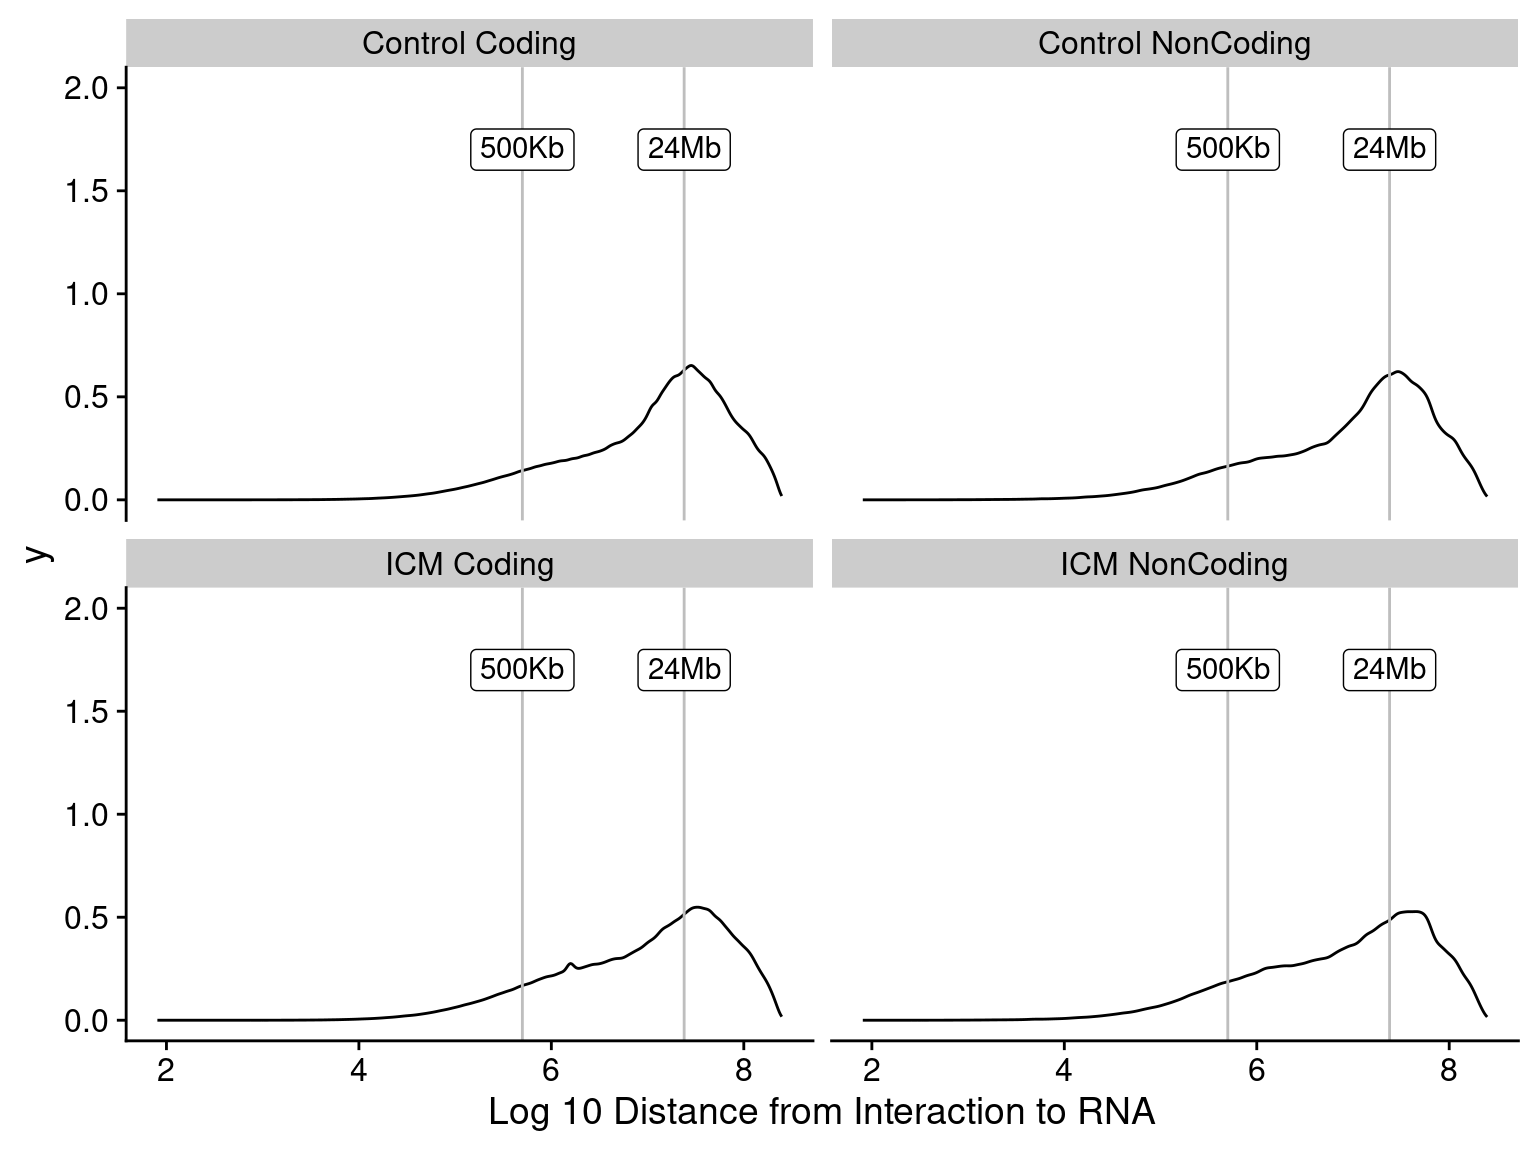
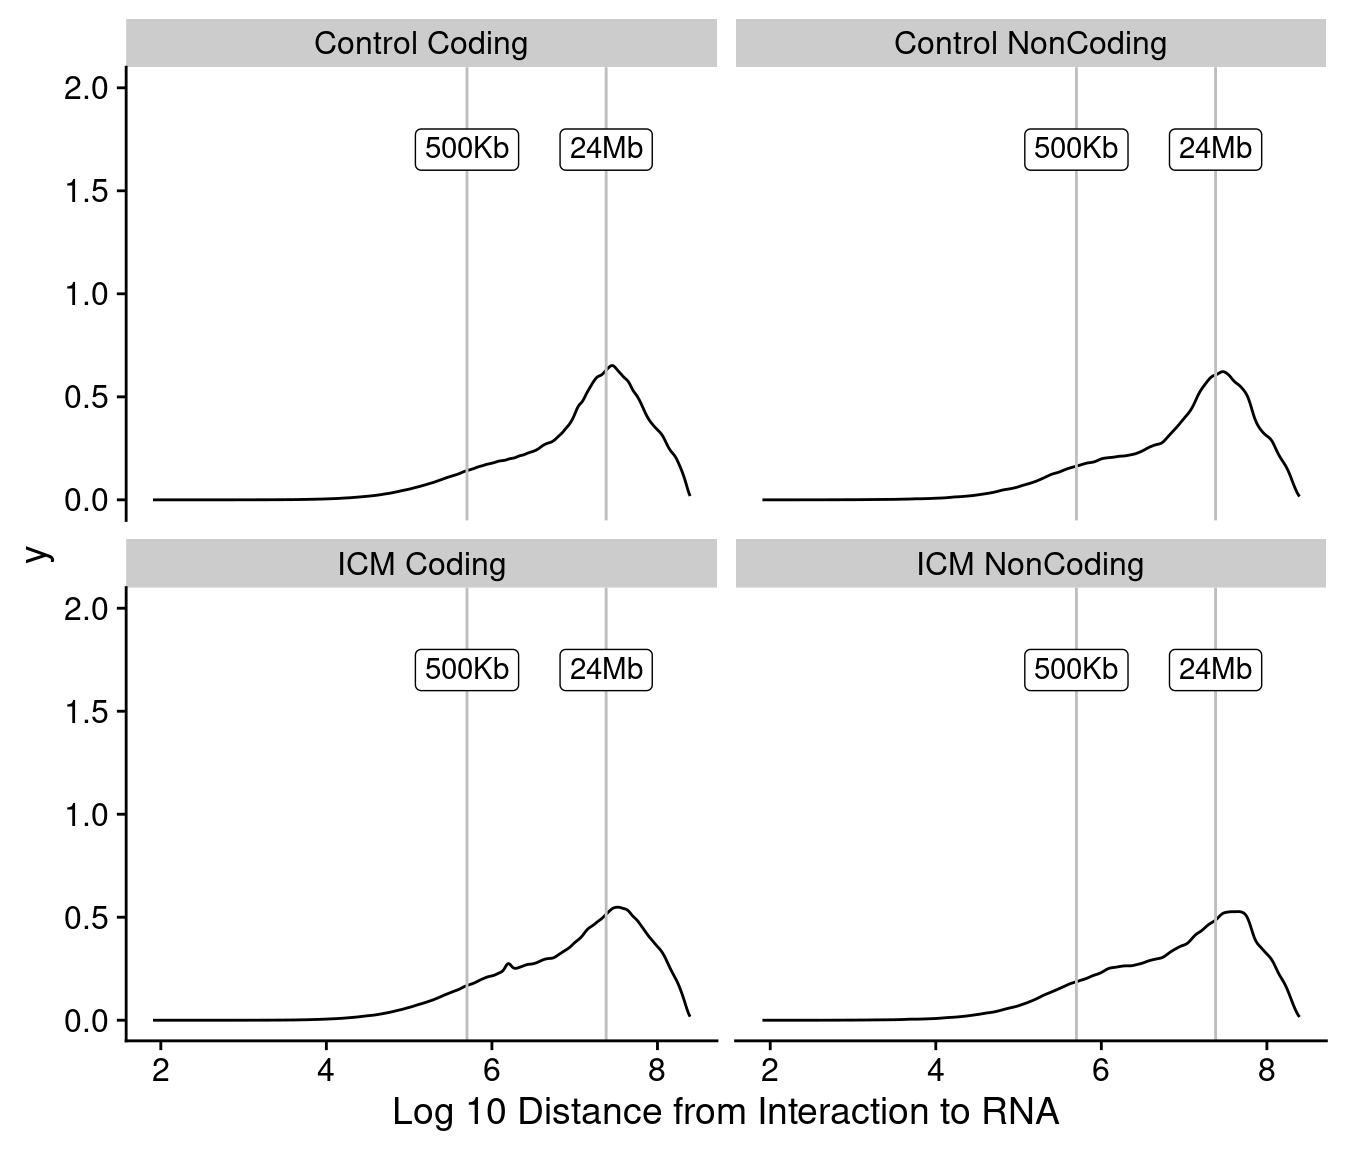
images

diff --git a/docs/norm.html b/docs/norm.html
@@ -471,9 +471,9 @@ div.tocify {
 <span id="cb1-4"><a href="#cb1-4" aria-hidden="true" tabindex="-1"></a>  <span class="at">comment =</span> <span class="st">&quot;#&gt;&quot;</span>,</span>
 <span id="cb1-5"><a href="#cb1-5" aria-hidden="true" tabindex="-1"></a>  <span class="co">#root.dir = root.dir</span></span>
 <span id="cb1-6"><a href="#cb1-6" aria-hidden="true" tabindex="-1"></a>  <span class="at">fig.height =</span> <span class="dv">6</span>,</span>
-<span id="cb1-7"><a href="#cb1-7" aria-hidden="true" tabindex="-1"></a>  <span class="at">fig.width =</span> <span class="fl">8.00787</span> <span class="co">#178mm</span></span>
+<span id="cb1-7"><a href="#cb1-7" aria-hidden="true" tabindex="-1"></a>  <span class="at">fig.width =</span> <span class="fl">7.00787</span> <span class="co">#178mm</span></span>
 <span id="cb1-8"><a href="#cb1-8" aria-hidden="true" tabindex="-1"></a>)  </span>
-<span id="cb1-9"><a href="#cb1-9" aria-hidden="true" tabindex="-1"></a>knitr<span class="sc">::</span>opts_knit<span class="sc">$</span><span class="fu">set</span>(<span class="co">#root.dir = root.dir, </span></span>
+<span id="cb1-9"><a href="#cb1-9" aria-hidden="true" tabindex="-1"></a>knitr<span class="sc">::</span>opts_knit<span class="sc">$</span><span class="fu">set</span>(<span class="at">root.dir =</span> <span class="st">&quot;~/Radicl_Seq/Radicl_seq_functions/&quot;</span>, </span>
 <span id="cb1-10"><a href="#cb1-10" aria-hidden="true" tabindex="-1"></a>                     <span class="at">dpi =</span> <span class="dv">350</span>)  </span>
 <span id="cb1-11"><a href="#cb1-11" aria-hidden="true" tabindex="-1"></a><span class="fu">library</span>(data.table)</span>
 <span id="cb1-12"><a href="#cb1-12" aria-hidden="true" tabindex="-1"></a><span class="fu">library</span>(ggplot2)</span>
@@ -500,8 +500,8 @@ div.tocify {
 <span id="cb11-8"><a href="#cb11-8" aria-hidden="true" tabindex="-1"></a><span class="fu">library</span>(scales)</span>
 <span id="cb11-9"><a href="#cb11-9" aria-hidden="true" tabindex="-1"></a><span class="co">#library(ggpubr)</span></span></code></pre></div>
 <pre><code>#&gt;              used   (Mb) gc trigger    (Mb)   max used   (Mb)
-#&gt; Ncells   10851032  579.6   17338411   926.0   11825415  631.6
-#&gt; Vcells 1265377192 9654.1 1653230576 12613.2 1265440165 9654.6
+#&gt; Ncells   10851038  579.6   17338414   926.0   11825382  631.6
+#&gt; Vcells 1265377258 9654.1 1653230670 12613.2 1265440231 9654.6
 #&gt;        trans          cis bait.to.bait 
 #&gt;        &quot;76%&quot;        &quot;24%&quot;        &quot;25%&quot; 
 #&gt;        trans          cis bait.to.bait 
@@ -533,8 +533,8 @@ div.tocify {
 <span id="cb13-13"><a href="#cb13-13" aria-hidden="true" tabindex="-1"></a>))</span>
 <span id="cb13-14"><a href="#cb13-14" aria-hidden="true" tabindex="-1"></a></span>
 <span id="cb13-15"><a href="#cb13-15" aria-hidden="true" tabindex="-1"></a>DT<span class="sc">::</span><span class="fu">datatable</span>(qc_df, <span class="at">container =</span> sktech, <span class="at">rownames =</span> <span class="cn">TRUE</span>,<span class="at">options =</span> <span class="fu">list</span>(<span class="at">scrollX=</span><span class="cn">TRUE</span>))</span></code></pre></div>
-<div class="datatables html-widget html-fill-item-overflow-hidden html-fill-item" id="htmlwidget-75d6eb5d55358e6624b3" style="width:100%;height:auto;"></div>
-<script type="application/json" data-for="htmlwidget-75d6eb5d55358e6624b3">{"x":{"filter":"none","vertical":false,"class":"display","data":[["trans","cis","bait.to.bait"],["76%","24%","25%"],["75%","25%","1%"],["79%","21%","26%"],["78%","22%","1%"],["76%","24%","23%"],["74%","26%","1%"],["80%","20%","24%"],["78%","22%","1%"]],"container":"<table class=\"display\">\n  <thead>\n    <tr>\n      <th rowspan=\"2\">Type<\/th>\n      <th colspan=\"5\">All<\/th>\n      <th colspan=\"5\">Significant<\/th>\n    <\/tr>\n    <tr>\n      <th>Ctrl Coding<\/th>\n      <th>Ctrl NonCoding<\/th>\n      <th>ICM Coding<\/th>\n      <th>ICM NonCoding<\/th>\n      <th>Ctrl Coding<\/th>\n      <th>Ctrl NonCoding<\/th>\n      <th>ICM Coding<\/th>\n      <th>ICM NonCoding<\/th>\n    <\/tr>\n  <\/thead>\n<\/table>","options":{"scrollX":true,"columnDefs":[{"orderable":false,"targets":0}],"order":[],"autoWidth":false,"orderClasses":false}},"evals":[],"jsHooks":[]}</script>
+<div class="datatables html-widget html-fill-item-overflow-hidden html-fill-item" id="htmlwidget-98c0ea7418d1e2fb68d4" style="width:100%;height:auto;"></div>
+<script type="application/json" data-for="htmlwidget-98c0ea7418d1e2fb68d4">{"x":{"filter":"none","vertical":false,"class":"display","data":[["trans","cis","bait.to.bait"],["76%","24%","25%"],["75%","25%","1%"],["79%","21%","26%"],["78%","22%","1%"],["76%","24%","23%"],["74%","26%","1%"],["80%","20%","24%"],["78%","22%","1%"]],"container":"<table class=\"display\">\n  <thead>\n    <tr>\n      <th rowspan=\"2\">Type<\/th>\n      <th colspan=\"5\">All<\/th>\n      <th colspan=\"5\">Significant<\/th>\n    <\/tr>\n    <tr>\n      <th>Ctrl Coding<\/th>\n      <th>Ctrl NonCoding<\/th>\n      <th>ICM Coding<\/th>\n      <th>ICM NonCoding<\/th>\n      <th>Ctrl Coding<\/th>\n      <th>Ctrl NonCoding<\/th>\n      <th>ICM Coding<\/th>\n      <th>ICM NonCoding<\/th>\n    <\/tr>\n  <\/thead>\n<\/table>","options":{"scrollX":true,"columnDefs":[{"orderable":false,"targets":0}],"order":[],"autoWidth":false,"orderClasses":false}},"evals":[],"jsHooks":[]}</script>
 <div id="preprocessing" class="section level2">
 <h2>Preprocessing</h2>
 <div class="sourceCode" id="cb14"><pre class="sourceCode r"><code class="sourceCode r"><span id="cb14-1"><a href="#cb14-1" aria-hidden="true" tabindex="-1"></a><span class="co">#read in the data</span></span>
@@ -559,8 +559,8 @@ div.tocify {
 <span id="cb14-20"><a href="#cb14-20" aria-hidden="true" tabindex="-1"></a>baits <span class="ot">&lt;-</span> <span class="fu">fread</span>(<span class="st">&quot;~/Radicl_Seq/Gene_locations_no_ovrlps.bed&quot;</span>)</span>
 <span id="cb14-21"><a href="#cb14-21" aria-hidden="true" tabindex="-1"></a><span class="fu">colnames</span>(baits) <span class="ot">&lt;-</span> <span class="fu">c</span>(<span class="st">&quot;chr&quot;</span>,<span class="st">&quot;start&quot;</span>,<span class="st">&quot;end&quot;</span>,<span class="st">&quot;bait_name&quot;</span>)</span></code></pre></div>
 <pre><code>#&gt;              used    (Mb) gc trigger    (Mb)   max used    (Mb)
-#&gt; Ncells   10936334   584.1   17338411   926.0   17338411   926.0
-#&gt; Vcells 1908717071 14562.4 6155472282 46962.6 5128160087 39124.8</code></pre>
+#&gt; Ncells   10936340   584.1   17338414   926.0   17338414   926.0
+#&gt; Vcells 1908717137 14562.4 6155472420 46962.6 5128160153 39124.8</code></pre>
 </div>
 <div id="relationship-between-rna-length-and-detected-interactions"
 class="section level2">
@@ -902,7 +902,7 @@ class="section level2">
 <span id="cb19-63"><a href="#cb19-63" aria-hidden="true" tabindex="-1"></a></span>
 <span id="cb19-64"><a href="#cb19-64" aria-hidden="true" tabindex="-1"></a>gridExtra<span class="sc">::</span><span class="fu">grid.arrange</span>(plt_non_b2b_frag,plt_non_b2b_bait,</span>
 <span id="cb19-65"><a href="#cb19-65" aria-hidden="true" tabindex="-1"></a>                          plt_b2b_frag,plt_b2b_bait,<span class="at">ncol=</span><span class="dv">2</span>)</span></code></pre></div>
-<p><img src="norm_files/figure-html/unnamed-chunk-8-1.png" width="768.75552" /></p>
+<p><img src="norm_files/figure-html/unnamed-chunk-8-1.png" width="672.75552" /></p>
 </div>
 <div id="distance-of-interactions-from-transcriptional-start-site"
 class="section level2">
@@ -917,7 +917,7 @@ class="section level2">
 <span id="cb20-8"><a href="#cb20-8" aria-hidden="true" tabindex="-1"></a>    <span class="fu">annotate</span>(<span class="at">x=</span><span class="fu">log</span>(<span class="dv">500000</span>,<span class="at">base=</span><span class="dv">10</span>),<span class="at">y=</span><span class="dv">2</span>,<span class="at">label=</span><span class="st">&quot;500Kb&quot;</span>,<span class="at">vjust=</span><span class="dv">2</span>,<span class="at">geom=</span><span class="st">&quot;label&quot;</span>)<span class="sc">+</span></span>
 <span id="cb20-9"><a href="#cb20-9" aria-hidden="true" tabindex="-1"></a>    <span class="fu">xlab</span>(<span class="st">&quot;Log 10 Distance from Interaction to RNA&quot;</span>)<span class="sc">+</span></span>
 <span id="cb20-10"><a href="#cb20-10" aria-hidden="true" tabindex="-1"></a>  <span class="fu">facet_wrap</span>(<span class="sc">~</span>type)</span></code></pre></div>
-<p><img src="norm_files/figure-html/unnamed-chunk-9-1.png" width="768.75552" /></p>
+<p><img src="norm_files/figure-html/unnamed-chunk-9-1.png" width="672.75552" /></p>
 <p>Split the plot according to the Replicate type and next according to
 the p value</p>
 <div class="sourceCode" id="cb21"><pre class="sourceCode r"><code class="sourceCode r"><span id="cb21-1"><a href="#cb21-1" aria-hidden="true" tabindex="-1"></a></span>
@@ -932,7 +932,7 @@ the p value</p>
 <span id="cb21-10"><a href="#cb21-10" aria-hidden="true" tabindex="-1"></a>  <span class="fu">annotate</span>(<span class="at">x=</span><span class="fu">log</span>(<span class="dv">24000000</span>,<span class="at">base =</span> <span class="dv">10</span>), <span class="at">y=</span><span class="dv">2</span>, <span class="at">label=</span><span class="st">&quot;24Mb&quot;</span>,<span class="at">vjust=</span><span class="dv">2</span>,<span class="at">geom =</span> <span class="st">&quot;label&quot;</span>) <span class="sc">+</span></span>
 <span id="cb21-11"><a href="#cb21-11" aria-hidden="true" tabindex="-1"></a>  <span class="fu">annotate</span>(<span class="at">x=</span><span class="fu">log</span>(<span class="dv">500000</span>,<span class="at">base =</span> <span class="dv">10</span>), <span class="at">y=</span><span class="dv">2</span>, <span class="at">label=</span><span class="st">&quot;500kb&quot;</span>,<span class="at">vjust=</span><span class="dv">2</span>,<span class="at">geom =</span> <span class="st">&quot;label&quot;</span>) <span class="sc">+</span></span>
 <span id="cb21-12"><a href="#cb21-12" aria-hidden="true" tabindex="-1"></a>  <span class="fu">xlab</span>(<span class="st">&quot;Log 10 Distance from interaction to RNA&quot;</span>)</span></code></pre></div>
-<p><img src="norm_files/figure-html/unnamed-chunk-10-1.png" width="768.75552" />
+<p><img src="norm_files/figure-html/unnamed-chunk-10-1.png" width="672.75552" />
 Normalizing the plot for RNA distance</p>
 <div class="sourceCode" id="cb22"><pre class="sourceCode r"><code class="sourceCode r"><span id="cb22-1"><a href="#cb22-1" aria-hidden="true" tabindex="-1"></a>merged_stretch_cis[,stnd_dist<span class="sc">:</span><span class="er">=</span>distance<span class="sc">/</span>bait.length]</span>
 <span id="cb22-2"><a href="#cb22-2" aria-hidden="true" tabindex="-1"></a></span>
@@ -948,7 +948,7 @@ Normalizing the plot for RNA distance</p>
 <span id="cb22-12"><a href="#cb22-12" aria-hidden="true" tabindex="-1"></a>    <span class="fu">annotate</span>(<span class="at">x=</span><span class="fu">log</span>(<span class="dv">400</span>,<span class="at">base=</span><span class="dv">10</span>),<span class="at">y=</span>.<span class="dv">8</span>,<span class="at">label=</span><span class="st">&quot;120x RNA Length&quot;</span>,<span class="at">vjust=</span><span class="dv">2</span>,</span>
 <span id="cb22-13"><a href="#cb22-13" aria-hidden="true" tabindex="-1"></a>             <span class="at">geom=</span><span class="st">&quot;label&quot;</span>)<span class="sc">+</span></span>
 <span id="cb22-14"><a href="#cb22-14" aria-hidden="true" tabindex="-1"></a>    <span class="fu">xlab</span>(<span class="st">&quot;Log 10 Distance from Interaction to RNA of RNA Length&quot;</span>)</span></code></pre></div>
-<p><img src="norm_files/figure-html/unnamed-chunk-11-1.png" width="768.75552" /></p>
+<p><img src="norm_files/figure-html/unnamed-chunk-11-1.png" width="672.75552" /></p>
 </div>
 <div
 id="check-the-effect-of-rna-length-normalisation-on-the-distribution-of-counts"
@@ -962,9 +962,9 @@ significant interactions.</p>
 <div class="sourceCode" id="cb23"><pre class="sourceCode r"><code class="sourceCode r"><span id="cb23-1"><a href="#cb23-1" aria-hidden="true" tabindex="-1"></a>merged_runs<span class="sc">$</span>target.len <span class="ot">&lt;-</span> merged_runs<span class="sc">$</span>target.end<span class="sc">-</span>merged_runs<span class="sc">$</span>target.start</span>
 <span id="cb23-2"><a href="#cb23-2" aria-hidden="true" tabindex="-1"></a>merged_runs<span class="sc">$</span>bait.len <span class="ot">&lt;-</span> merged_runs<span class="sc">$</span>bait.end<span class="sc">-</span>merged_runs<span class="sc">$</span>bait.start</span>
 <span id="cb23-3"><a href="#cb23-3" aria-hidden="true" tabindex="-1"></a><span class="co">#plot the relationship between bait length and counts</span></span></code></pre></div>
-<p><img src="../Images/Chicane_baits.trans_plot.png" width="2066" /></p>
-<p><img src="../Images/Chicane_targets.trans_plot.png" width="2066" /></p>
-<p><img src="../Images/Chicane_counts_dist.png" width="2066" /></p>
+<p><img src="../Images/Chicane_baits.trans_plot.png" width="100%" /></p>
+<p><img src="../Images/Chicane_targets.trans_plot.png" width="100%" /></p>
+<p><img src="../Images/Chicane_counts_dist.png" width="100%" /></p>
 </div>
 <div id="coding-vs-non-coding-rnas" class="section level2">
 <h2>Coding vs Non-coding RNAs</h2>
@@ -1028,7 +1028,7 @@ significant interactions.</p>
 <span id="cb26-10"><a href="#cb26-10" aria-hidden="true" tabindex="-1"></a>            <span class="at">legend.position=</span><span class="st">&quot;none&quot;</span>)<span class="sc">+</span></span>
 <span id="cb26-11"><a href="#cb26-11" aria-hidden="true" tabindex="-1"></a>    <span class="fu">xlab</span>(<span class="st">&quot;&quot;</span>)<span class="sc">+</span></span>
 <span id="cb26-12"><a href="#cb26-12" aria-hidden="true" tabindex="-1"></a>    <span class="fu">ylab</span>(<span class="st">&quot;Total Number of interactions&quot;</span>)</span></code></pre></div>
-<p><img src="norm_files/figure-html/unnamed-chunk-18-1.png" width="768.75552" /></p>
+<p><img src="norm_files/figure-html/unnamed-chunk-18-1.png" width="672.75552" /></p>
 <div class="sourceCode" id="cb27"><pre class="sourceCode r"><code class="sourceCode r"><span id="cb27-1"><a href="#cb27-1" aria-hidden="true" tabindex="-1"></a><span class="fu">ggplot</span>(res_biotyp[q.value<span class="sc">&lt;</span><span class="fl">0.05</span>,],</span>
 <span id="cb27-2"><a href="#cb27-2" aria-hidden="true" tabindex="-1"></a>        <span class="fu">aes</span>(<span class="at">x=</span>gene_biotype_hl,<span class="at">fill=</span>gene_biotype_hl)) <span class="sc">+</span></span>
 <span id="cb27-3"><a href="#cb27-3" aria-hidden="true" tabindex="-1"></a>    <span class="fu">geom_bar</span>()<span class="sc">+</span></span>
@@ -1039,7 +1039,7 @@ significant interactions.</p>
 <span id="cb27-8"><a href="#cb27-8" aria-hidden="true" tabindex="-1"></a>            <span class="at">legend.position=</span><span class="st">&quot;none&quot;</span>)<span class="sc">+</span></span>
 <span id="cb27-9"><a href="#cb27-9" aria-hidden="true" tabindex="-1"></a>    <span class="fu">xlab</span>(<span class="st">&quot;&quot;</span>)<span class="sc">+</span></span>
 <span id="cb27-10"><a href="#cb27-10" aria-hidden="true" tabindex="-1"></a>    <span class="fu">ylab</span>(<span class="st">&quot;Number of significant interactions&quot;</span>)</span></code></pre></div>
-<p><img src="norm_files/figure-html/unnamed-chunk-19-1.png" width="768.75552" /></p>
+<p><img src="norm_files/figure-html/unnamed-chunk-19-1.png" width="672.75552" /></p>
 <p>Proportion of cis coding/non coding interactions</p>
 <div class="sourceCode" id="cb28"><pre class="sourceCode r"><code class="sourceCode r"><span id="cb28-1"><a href="#cb28-1" aria-hidden="true" tabindex="-1"></a>merged_counts <span class="ot">&lt;-</span> res_biotyp[q.value<span class="sc">&lt;</span><span class="fl">0.05</span>, .N, by<span class="ot">=</span>.(interaction,gene_biotype_hl, control)]</span>
 <span id="cb28-2"><a href="#cb28-2" aria-hidden="true" tabindex="-1"></a><span class="co">#merged_counts$control &lt;- ifelse(merged_counts$type %in% c(&quot;Control Coding&quot;,&quot;Control NonCoding&quot;), &quot;Control&quot;,&quot;ICM&quot;)</span></span>
@@ -1065,7 +1065,7 @@ significant interactions.</p>
 <span id="cb28-22"><a href="#cb28-22" aria-hidden="true" tabindex="-1"></a>    <span class="fu">xlab</span>(<span class="st">&quot;&quot;</span>)<span class="sc">+</span></span>
 <span id="cb28-23"><a href="#cb28-23" aria-hidden="true" tabindex="-1"></a>    <span class="fu">ylab</span>(<span class="st">&quot;Proportion &quot;</span>)</span>
 <span id="cb28-24"><a href="#cb28-24" aria-hidden="true" tabindex="-1"></a><span class="fu">plot_grid</span>(plot1,plot2, <span class="at">labels =</span> <span class="fu">c</span>(<span class="st">&quot;Control&quot;</span>,<span class="st">&quot;ICM&quot;</span>), <span class="at">nrow =</span> <span class="dv">2</span>)</span></code></pre></div>
-<p><img src="norm_files/figure-html/unnamed-chunk-20-1.png" width="768.75552" /></p>
+<p><img src="norm_files/figure-html/unnamed-chunk-20-1.png" width="672.75552" /></p>
 <div class="sourceCode" id="cb29"><pre class="sourceCode r"><code class="sourceCode r"><span id="cb29-1"><a href="#cb29-1" aria-hidden="true" tabindex="-1"></a><span class="fu">ggplot</span>(merged_counts,<span class="fu">aes</span>(<span class="at">x=</span>gene_biotype_hl,<span class="at">y=</span>prop,<span class="at">fill=</span>gene_biotype_hl)) <span class="sc">+</span></span>
 <span id="cb29-2"><a href="#cb29-2" aria-hidden="true" tabindex="-1"></a>    <span class="fu">geom_bar</span>(<span class="at">stat=</span><span class="st">&quot;identity&quot;</span>)<span class="sc">+</span></span>
 <span id="cb29-3"><a href="#cb29-3" aria-hidden="true" tabindex="-1"></a>    <span class="fu">facet_wrap</span>(control<span class="sc">~</span>interaction, <span class="at">nrow =</span> <span class="dv">2</span>)<span class="sc">+</span></span>
@@ -1075,7 +1075,7 @@ significant interactions.</p>
 <span id="cb29-7"><a href="#cb29-7" aria-hidden="true" tabindex="-1"></a>          <span class="at">legend.position=</span><span class="st">&quot;none&quot;</span>)<span class="sc">+</span></span>
 <span id="cb29-8"><a href="#cb29-8" aria-hidden="true" tabindex="-1"></a>    <span class="fu">xlab</span>(<span class="st">&quot;&quot;</span>)<span class="sc">+</span></span>
 <span id="cb29-9"><a href="#cb29-9" aria-hidden="true" tabindex="-1"></a>    <span class="fu">ylab</span>(<span class="st">&quot;Proportion of significant cis/trans Interactions&quot;</span>)</span></code></pre></div>
-<p><img src="norm_files/figure-html/unnamed-chunk-21-1.png" width="768.75552" height="100%" /></p>
+<p><img src="norm_files/figure-html/unnamed-chunk-21-1.png" width="672.75552" height="100%" /></p>
 </div>
 
 
